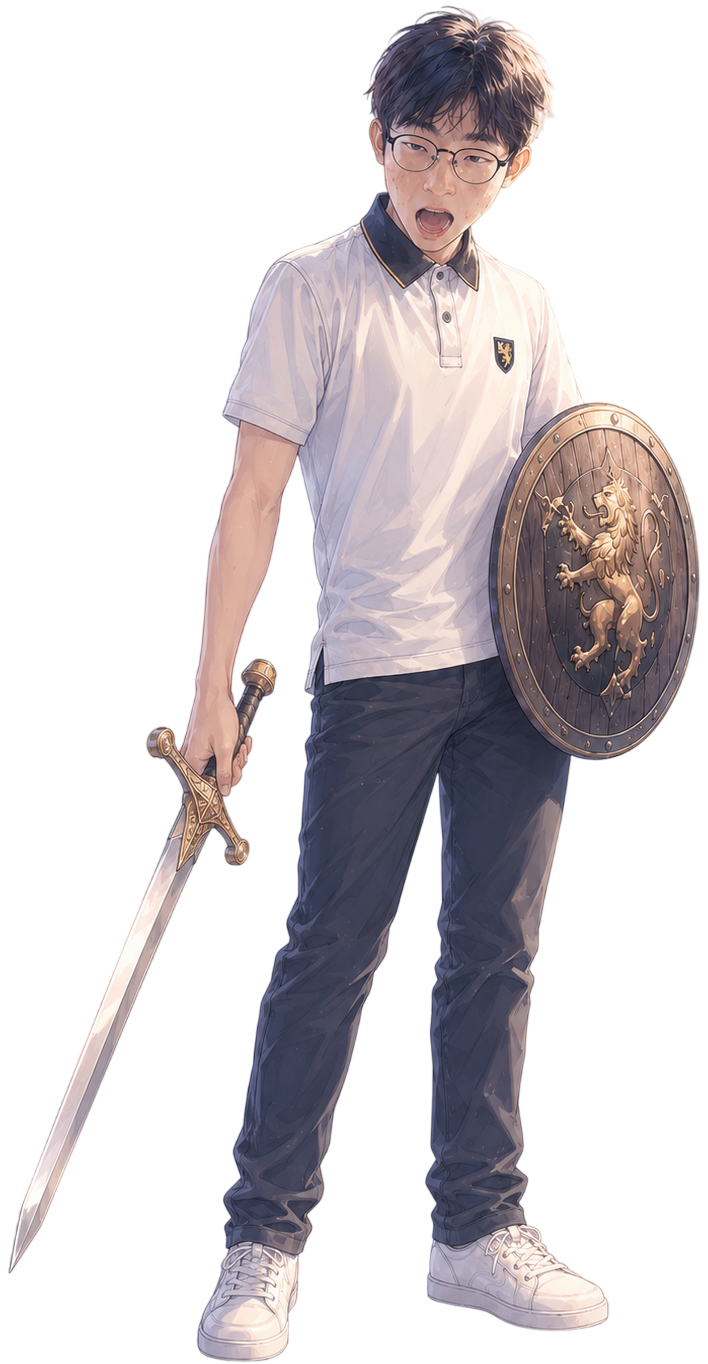
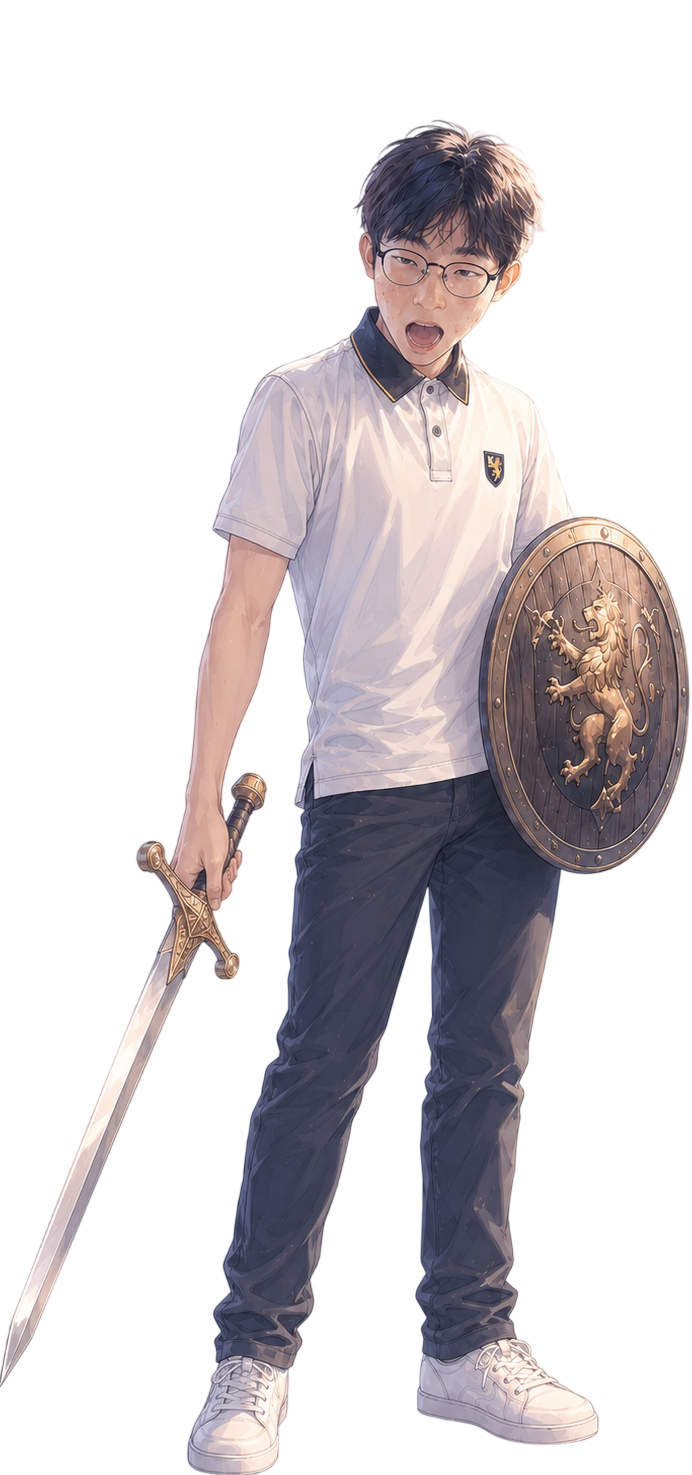
거래소 문구/버튼 순서 조정, sjh model.png 갱신

Changed region(s): [[0.0, 0.0, 1.0, 1.0]]

diff --git a/trade/trade.css b/trade/trade.css
@@ -393,21 +393,6 @@
     min-height: 0;
 }
 
-/* 캐릭터 크기는 오직 높이(max-height)로만 정한다 - max-width를 아예 두지 않는다. 100%로 프레임
-   폭 안에 가두면, idle.png처럼 캐릭터 좌우로 여백이 있는 이미지는 그 여백까지 폭에 맞추려다
-   object-fit:contain의 스케일이 가로 기준으로 정해져버려서(가로가 더 빡빡한 제약이 되어) 세로가
-   100%까지 못 크고 작아 보였다. 폭 제한을 없애면 항상 높이만으로 스케일이 정해지므로 캐릭터
-   키(세로)는 항상 프레임을 꽉 채우고, 대신 여백이 있는 이미지는 그 폭만큼 옆 카드 쪽으로
-   자연스럽게 넘칠 수 있다(의도적으로 허용 - 프레임/그리드에 overflow:hidden을 안 걸어둔 이유).
-   overflow가 하나라도 hidden이면 이 넘침이 그대로 잘려버리니 조상 요소에 새로 추가하지 말 것.
-
-   좁은 화면에서 이 넘침이 커지면 카드가 왼쪽으로 쏠려 보이고 이름이 캐릭터 하단 왼쪽에 걸린
-   것처럼 보이는 문제가 있었다 - 원인은 프레임이 flex(justify-content:center)로 이미지를
-   가운데 두고 있었던 것: 그 계산은 이미지의 "정렬 전 크기"를 기준으로 컨테이너 안에서 남는
-   공간을 좌우로 나누는 방식이라, 넘치는 정도가 클수록(이미지가 프레임보다 훨씬 넓어질수록)
-   센터링 오차가 함께 커지기 쉬웠다. flex 정렬 대신 절대위치(left:50% + translateX(-50%))로
-   바꾸면 이미지 자신의 실제 렌더 폭을 기준으로 정확히 중앙에 고정되므로, 넘치는 정도와 무관하게
-   항상 이름과 같은 중심선에 맞는다. */
 .trade-standing-card-frame img {
     position: absolute;
     left: 50%;

diff --git a/trade/trade-partial.html b/trade/trade-partial.html
@@ -99,11 +99,11 @@
 
 <div class="trade-result-overlay" id="trade-confirm-overlay" hidden>
     <div class="trade-result-box">
-        <div class="trade-result-title" id="trade-confirm-title">정말 등록하시겠어요?</div>
+        <div class="trade-result-title" id="trade-confirm-title">정말로 등록하시겠습니까아아?</div>
         <p class="trade-result-desc" id="trade-confirm-desc">등록한 캐릭터는 판매되거나 자정에 초기화되기 전까지 취소할 수 없습니다.</p>
         <div class="trade-confirm-actions">
-            <button class="trade-confirm-cancel" id="trade-confirm-cancel" type="button">취소</button>
             <button class="trade-confirm-ok" id="trade-confirm-ok" type="button">확인</button>
+            <button class="trade-confirm-cancel" id="trade-confirm-cancel" type="button">취소</button>
         </div>
     </div>
 </div>
